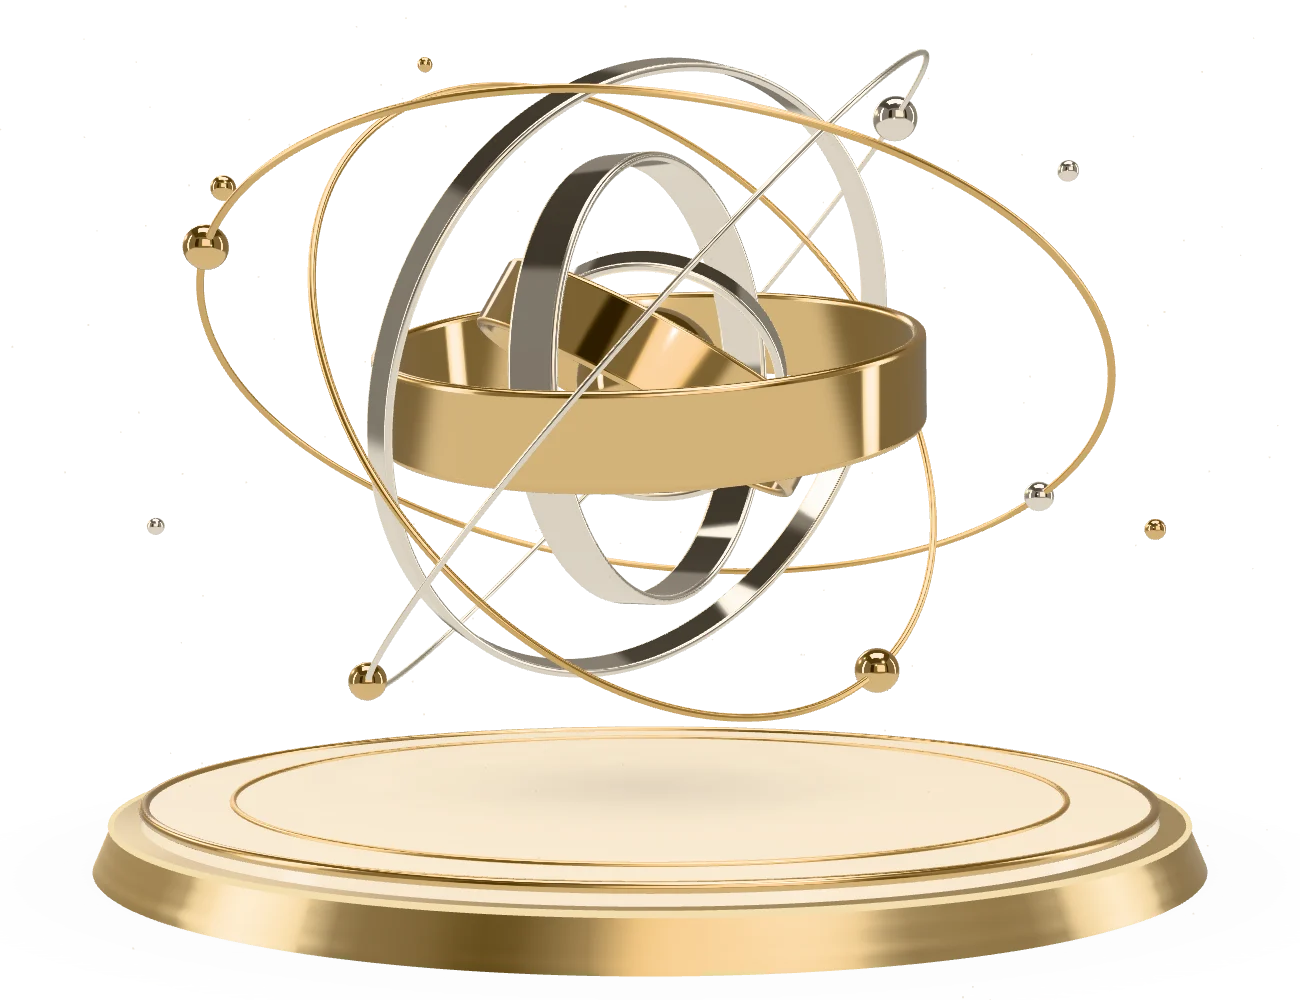
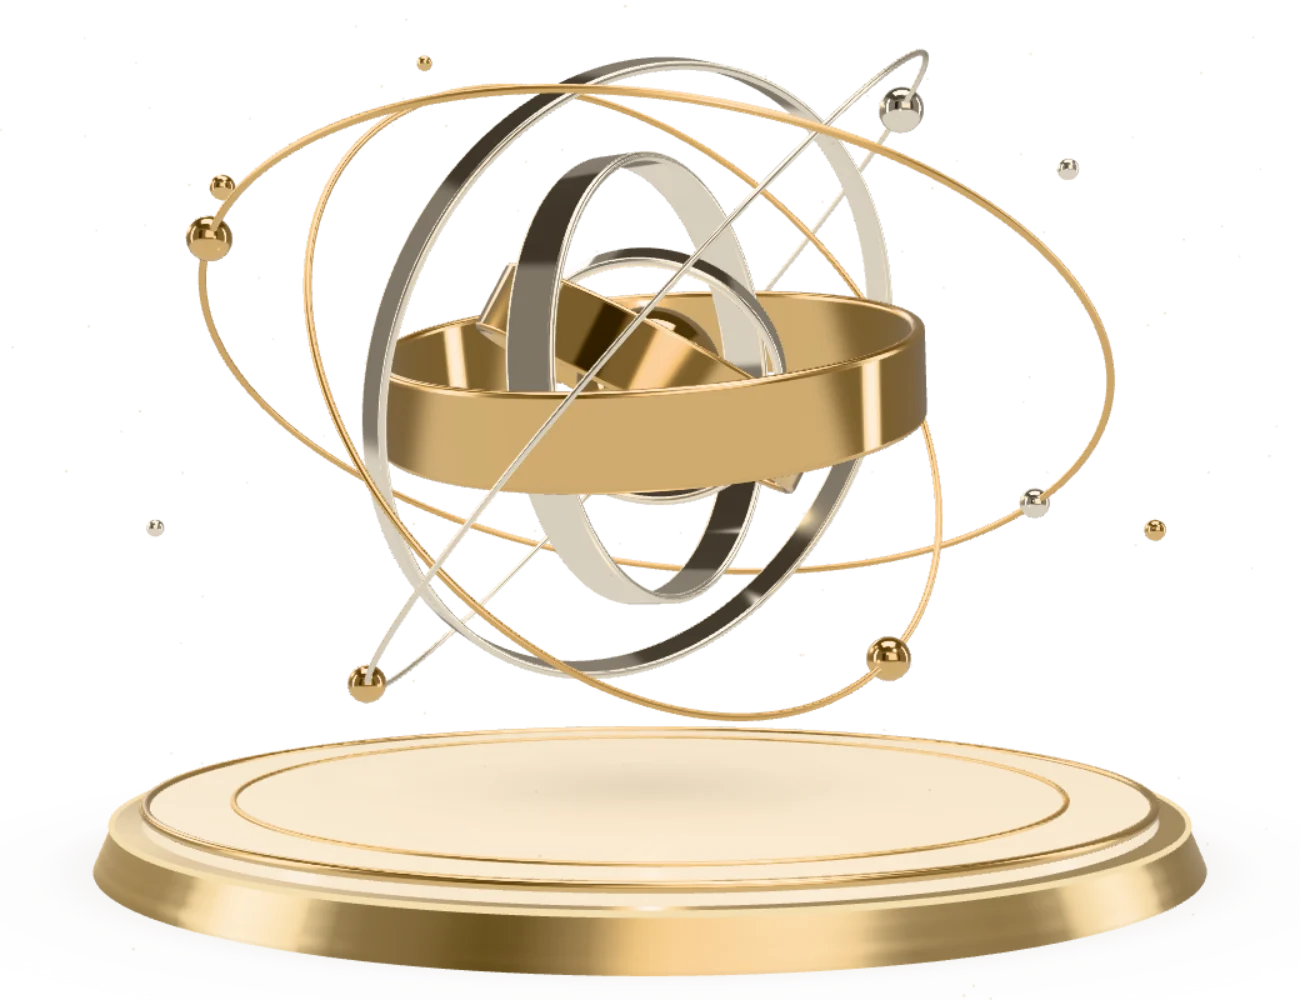
Polish hero lighting, materials, shadows and stats card
- Backdrop: two large, low-contrast curved shells (a grand arch and a
  curved floor step) and a warm daylight wash from the upper right.
  Softer ambient glow with an eased falloff, dimmer warm rays, gentler
  vignette and a faint occlusion band where the wall meets the floor.
  Gradient fills only, no blur, so repaints stay cheap.
- Hero sculpture: lacquered champagne gold and warm polished platinum
  with a thin clearcoat for layered reflections; a warm bounce light
  from the platform; warm contact shadows plus a tight occlusion line
  at the plinth foot; the pool under the sculpture softens as it rises.
  Other scenes are unchanged.
- Stats card: layered warm shadows (ambient, key, contact) and a fill
  lit from the upper right, so it floats above the backdrop.
- Re-rendered the transparent hero.webp fallback.

diff --git a/lib/features/home/hero_backdrop.dart b/lib/features/home/hero_backdrop.dart
@@ -10,8 +10,10 @@ import '../../core/utils/responsive.dart';
 import '../../shared/three/scroll_animation_controller.dart';
 
 /// The hero's environment: a pearl-and-ivory architectural space of curved
-/// walls catching champagne light, with a golden glow behind the sculpture,
-/// light flowing along the walls' edges and slow gold and platinum motes.
+/// walls catching champagne light, set in the large curved shell of a room
+/// lit by warm daylight from the upper right, with a golden glow behind the
+/// sculpture, light flowing along the walls' edges and slow gold and
+/// platinum motes.
 ///
 /// Two layers keep it cheap. The architecture repaints only when the pointer
 /// or the scroll moves it; the atmosphere (glow, streaks, motes) animates on
@@ -141,6 +143,69 @@ const _light = Color(0xFFFFFCF6);
 const _shade = Color(0xFFDCC9AC); // shaded side of a curved wall
 const _shadow = Color(0xFF8A7458); // warm cast shadow, used at low alpha
 const _platinumMote = Color(0xFFBDB8AF);
+const _sun = Color(0xFFFFF0D6); // warm daylight
+
+/// A large shell of the room: its lit lip (a cubic from [a] to [b]) and
+/// [inset], the offset from the lip to the shell's far, shaded side. All in
+/// normalised coordinates.
+typedef _Shell = ({Offset a, Offset c1, Offset c2, Offset b, Offset inset});
+
+/// Wide layouts: a grand arch rising behind the sculpture and over the
+/// room, and a long curved step in the floor. Stacked layouts keep both
+/// below the copy.
+List<_Shell> _shells(bool wide) => wide
+    ? const [
+        (a: Offset(0.16, 1.1), c1: Offset(0.3, 0.32), c2: Offset(0.62, -0.04), b: Offset(1.1, -0.02), inset: Offset(0.1, 0.11)),
+        (a: Offset(-0.05, 0.86), c1: Offset(0.35, 0.77), c2: Offset(0.7, 0.8), b: Offset(1.05, 0.69), inset: Offset(0, 0.07)),
+      ]
+    : const [
+        (a: Offset(-0.1, 0.78), c1: Offset(0.25, 0.47), c2: Offset(0.7, 0.43), b: Offset(1.1, 0.56), inset: Offset(0, 0.08)),
+        (a: Offset(-0.05, 0.95), c1: Offset(0.4, 0.86), c2: Offset(0.7, 0.88), b: Offset(1.05, 0.82), inset: Offset(0, 0.05)),
+      ];
+
+/// Paints a [_Shell]: lit at its lip, turning through clear ivory into a
+/// faint shade that dissolves before its far side, so it has no hard edge.
+/// Gradients only, no blur, so it stays cheap to repaint.
+void _paintShell(Canvas canvas, Size size, _Shell shell) {
+  Offset at(Offset p) => Offset(p.dx * size.width, p.dy * size.height);
+  final inset = at(shell.inset);
+  final lip = Path()
+    ..moveTo(at(shell.a).dx, at(shell.a).dy)
+    ..cubicTo(at(shell.c1).dx, at(shell.c1).dy, at(shell.c2).dx, at(shell.c2).dy, at(shell.b).dx, at(shell.b).dy);
+  final body = Path()
+    ..addPath(lip, Offset.zero)
+    ..extendWithPath(_ArchitecturePainter._reverse(lip.shift(inset)), Offset.zero)
+    ..close();
+  final mid = lip.computeMetrics().first;
+  final from = mid.getTangentForOffset(mid.length / 2)!.position;
+  canvas.drawPath(
+    body,
+    Paint()
+      ..shader = ui.Gradient.linear(
+        from,
+        from + inset,
+        [_light.withValues(alpha: 0.55), _light.withValues(alpha: 0), _shadow.withValues(alpha: 0.06), _shadow.withValues(alpha: 0)],
+        const [0, 0.35, 0.72, 1],
+      ),
+  );
+  // The lip itself: a hairline of champagne, fading out at both ends.
+  final bounds = lip.getBounds().inflate(1);
+  canvas.drawPath(
+    lip,
+    Paint()
+      ..style = PaintingStyle.stroke
+      ..strokeWidth = 1.2
+      ..shader = LinearGradient(
+        colors: [
+          AppColors.softChampagne.withValues(alpha: 0),
+          AppColors.softChampagne.withValues(alpha: 0.38),
+          AppColors.softChampagne.withValues(alpha: 0.3),
+          AppColors.softChampagne.withValues(alpha: 0),
+        ],
+        stops: const [0, 0.45, 0.75, 1],
+      ).createShader(bounds),
+  );
+}
 
 /// A curved wall: its lit edge (a cubic from [a] to [b]), its thickness as a
 /// fraction of the width, how strongly the edge catches gold, and its depth
@@ -209,6 +274,36 @@ class _ArchitecturePainter extends CustomPainter {
         ).createShader(rect),
     );
 
+    // Natural light: a broad, warm daylight wash entering from the upper
+    // right, as through a tall window out of frame. Long, eased falloff so
+    // it never shows an edge.
+    final window = wide ? Offset(w * 1.05, -h * 0.15) : Offset(w * 0.95, -h * 0.1);
+    final windowRadius = math.max(w, h) * (wide ? 1.05 : 1.2);
+    canvas.drawRect(
+      rect,
+      Paint()
+        ..shader = RadialGradient(
+          colors: [
+            _sun.withValues(alpha: 0.5),
+            _sun.withValues(alpha: 0.26),
+            _sun.withValues(alpha: 0.08),
+            _sun.withValues(alpha: 0),
+          ],
+          stops: const [0, 0.32, 0.62, 1],
+        ).createShader(Rect.fromCircle(center: window, radius: windowRadius)),
+    );
+
+    // Far: the shell of the room, two very large, low-contrast curved
+    // surfaces sweeping behind everything. Each is shaded across its width
+    // with a soft lit lip, so it reads as form rather than line.
+    canvas.save();
+    final shell = _shift(p, s, 0.12, size);
+    canvas.translate(shell.dx, shell.dy);
+    for (final curve in _shells(wide)) {
+      _paintShell(canvas, size, curve);
+    }
+    canvas.restore();
+
     // Far: architectural ribs, faint concentric arcs of a vault rising
     // behind the sculpture. They barely move, which reads as distance.
     canvas.save();
@@ -249,6 +344,19 @@ class _ArchitecturePainter extends CustomPainter {
             colors: [_warm.withValues(alpha: 0), _warm.withValues(alpha: 0.75), _ivory.withValues(alpha: 0.3)],
             stops: const [0, 0.45, 1],
           ).createShader(floor),
+      );
+      // Ambient occlusion where the wall meets the floor: a faint, soft
+      // band of shade that grounds the room.
+      final junction = Rect.fromLTWH(0, h * 0.68, w, h * 0.12);
+      canvas.drawRect(
+        junction,
+        Paint()
+          ..shader = LinearGradient(
+            begin: Alignment.topCenter,
+            end: Alignment.bottomCenter,
+            colors: [_shadow.withValues(alpha: 0), _shadow.withValues(alpha: 0.045), _shadow.withValues(alpha: 0)],
+            stops: const [0, 0.55, 1],
+          ).createShader(junction),
       );
     }
 
@@ -361,8 +469,8 @@ class _ArchitecturePainter extends CustomPainter {
         ..shader = RadialGradient(
           center: wide ? const Alignment(0.2, -0.1) : Alignment.center,
           radius: 1.05,
-          colors: [_shadow.withValues(alpha: 0), _shadow.withValues(alpha: 0.1)],
-          stops: const [0.6, 1],
+          colors: [_shadow.withValues(alpha: 0), _shadow.withValues(alpha: 0.035), _shadow.withValues(alpha: 0.09)],
+          stops: const [0.55, 0.8, 1],
         ).createShader(rect),
     );
 
@@ -473,18 +581,24 @@ class _AtmospherePainter extends CustomPainter {
     final focus = _focus(size, wide) + Offset(0, -s * size.height * 0.12);
     final radius = math.max(size.width, size.height) * (wide ? 0.34 : 0.42);
     final strength = intro * (1 + math.sin(s * math.pi) * 0.35) * (1 - s * 0.5);
+    final glow = (0.17 + breath * 0.05) * strength;
+    // A slightly wider pool with an eased, many-step falloff: gentler at
+    // the centre and with no visible ring where it meets the room.
     canvas.drawCircle(
       focus,
-      radius,
+      radius * 1.12,
       Paint()
         ..shader = RadialGradient(
           colors: [
-            _light.withValues(alpha: 0.5 * strength),
-            AppColors.softChampagne.withValues(alpha: (0.2 + breath * 0.07) * strength),
+            _light.withValues(alpha: 0.42 * strength),
+            _light.withValues(alpha: 0.26 * strength),
+            AppColors.softChampagne.withValues(alpha: glow),
+            AppColors.softChampagne.withValues(alpha: glow * 0.45),
+            AppColors.softChampagne.withValues(alpha: glow * 0.12),
             AppColors.softChampagne.withValues(alpha: 0),
           ],
-          stops: const [0, 0.42, 1],
-        ).createShader(Rect.fromCircle(center: focus, radius: radius)),
+          stops: const [0, 0.2, 0.42, 0.62, 0.82, 1],
+        ).createShader(Rect.fromCircle(center: focus, radius: radius * 1.12)),
     );
   }
 
@@ -506,11 +620,12 @@ class _AtmospherePainter extends CustomPainter {
       canvas.drawPath(
         ray,
         Paint()
-          ..maskFilter = const MaskFilter.blur(BlurStyle.normal, 18)
+          ..maskFilter = const MaskFilter.blur(BlurStyle.normal, 24)
           ..shader = RadialGradient(
             center: Alignment.topRight,
             radius: 1.2,
-            colors: [_light.withValues(alpha: 0.5 * intro), _light.withValues(alpha: 0)],
+            colors: [_sun.withValues(alpha: 0.36 * intro), _sun.withValues(alpha: 0.12 * intro), _sun.withValues(alpha: 0)],
+            stops: const [0, 0.5, 1],
           ).createShader(ray.getBounds()),
       );
     }

diff --git a/web/three/yodynix3d.js b/web/three/yodynix3d.js
@@ -572,14 +572,20 @@ class Kit {
     return this.track(t);
   }
 
-  /** Soft ambient-occlusion shadow on an invisible floor. */
-  contactShadow(radius = 1.4, opacity = 0.22) {
+  /**
+   * Soft ambient-occlusion shadow on an invisible floor. A [tight] shadow
+   * holds its density almost to the edge and then falls off quickly: the
+   * crisp occlusion line where a solid base meets the floor. A [warm] shadow
+   * is umber rather than charcoal, as shadows read on an ivory floor.
+   */
+  contactShadow(radius = 1.4, opacity = 0.22, { tight = false, warm = false } = {}) {
     const tex = this.canvasTexture(256, 256, (g, w, h) => {
       const grad = g.createRadialGradient(w / 2, h / 2, 0, w / 2, h / 2, w / 2);
-      grad.addColorStop(0, 'rgba(42,40,38,1)');
-      grad.addColorStop(0.35, 'rgba(42,40,38,0.55)');
-      grad.addColorStop(0.7, 'rgba(42,40,38,0.12)');
-      grad.addColorStop(1, 'rgba(42,40,38,0)');
+      const stops = tight
+        ? [[0, 1], [0.86, 0.8], [0.93, 0.22], [1, 0]]
+        : [[0, 1], [0.35, 0.55], [0.7, 0.12], [1, 0]];
+      const rgb = warm ? '58,46,32' : '42,40,38';
+      for (const [at, a] of stops) grad.addColorStop(at, `rgba(${rgb},${a})`);
       g.fillStyle = grad;
       g.fillRect(0, 0, w, h);
     });
@@ -1483,8 +1489,17 @@ const SCENES = {
       [1.46, 0.5, 0.07, true, [0.55, -0.4, 0.95], [0.4, 0, 1], -0.12],
       [1.7, 0.2, 0.045, false, [1.35, 0.9, 0], [1, 0, 0.2], 0.09],
     ];
+    // Hero finishes: the gold is a deep champagne under a thin, glassy
+    // lacquer, so it shows both the warm metal reflection and a crisp white
+    // highlight on top; the silver is a warm polished platinum with a faint
+    // clearcoat for the same layered depth.
+    const heroGold = (extra = {}) =>
+      kit.liquidGold({ color: 0xe8c890, roughness: 0.1, clearcoat: 0.85, clearcoatRoughness: 0.035, envMapIntensity: 1.35, ...extra });
+    const heroSilver = (extra = {}) =>
+      kit.chrome({ color: 0xf1efea, roughness: 0.06, clearcoat: 0.5, clearcoatRoughness: 0.04, envMapIntensity: 1.3, ...extra });
+
     const bands = bandSpecs.map(([R, w, t, isGold, rest, axis, speed], i) => {
-      const material = isGold ? kit.liquidGold({ roughness: 0.08 }) : kit.chrome({ roughness: 0.05 });
+      const material = isGold ? heroGold() : heroSilver();
       const mesh = new THREE.Mesh(band(R, w, t), material);
       const pivot = new THREE.Group();
       pivot.rotation.set(...rest);
@@ -1495,7 +1510,7 @@ const SCENES = {
     });
 
     // Liquid-gold core with a warm inner light.
-    const core = new THREE.Mesh(new THREE.SphereGeometry(0.4, 96, 64), kit.liquidGold({ roughness: 0.03 }));
+    const core = new THREE.Mesh(new THREE.SphereGeometry(0.4, 96, 64), heroGold({ roughness: 0.04 }));
     const coreLight = new THREE.PointLight(0xffdca0, 1.2, 2.2, 2);
     sculpture.add(core, coreLight);
     casters.push(core);
@@ -1516,11 +1531,11 @@ const SCENES = {
       spin.add(tilt);
       const ring = new THREE.Mesh(
         new THREE.TorusGeometry(radius, goldRing ? 0.02 : 0.016, 20, kit.seg(360)),
-        goldRing ? kit.gold({ roughness: 0.1 }) : kit.chrome({ roughness: 0.06 }),
+        goldRing ? heroGold({ roughness: 0.12, clearcoat: 0.5 }) : heroSilver({ roughness: 0.07 }),
       );
-      const sphere = new THREE.Mesh(new THREE.SphereGeometry(size, 48, 32), goldSphere ? kit.liquidGold() : kit.chrome({ roughness: 0.04 }));
+      const sphere = new THREE.Mesh(new THREE.SphereGeometry(size, 48, 32), goldSphere ? heroGold() : heroSilver({ roughness: 0.04 }));
       // A second, smaller rider opposite the first on the outer rings.
-      const rider = i > 0 ? new THREE.Mesh(new THREE.SphereGeometry(size * 0.75, 32, 24), goldSphere ? kit.chrome({ roughness: 0.04 }) : kit.liquidGold()) : null;
+      const rider = i > 0 ? new THREE.Mesh(new THREE.SphereGeometry(size * 0.75, 32, 24), goldSphere ? heroSilver({ roughness: 0.04 }) : heroGold()) : null;
       tilt.add(ring, sphere);
       if (rider) tilt.add(rider);
       sculpture.add(spin);
@@ -1569,12 +1584,15 @@ const SCENES = {
     rim.rotation.x = Math.PI / 2;
     rim.position.y = platformTop - 0.08;
     platform.add(plinth, top, inlay, lip, rim);
-    // Ambient occlusion: a soft pool under the sculpture and under the plinth.
-    const pool = kit.contactShadow(1.6, 0.16);
+    // Ambient occlusion: a soft pool under the sculpture, a broad shadow
+    // around the plinth and a tight occlusion line where it meets the floor.
+    const pool = kit.contactShadow(1.6, 0.18, { warm: true });
     pool.position.y = platformTop + 0.003;
-    const ground = kit.contactShadow(4.0, 0.22);
+    const ground = kit.contactShadow(4.2, 0.24, { warm: true });
     ground.position.y = platformTop - 0.31;
-    platform.add(pool, ground);
+    const foot = kit.contactShadow(3.4, 0.2, { tight: true, warm: true });
+    foot.position.y = platformTop - 0.305;
+    platform.add(pool, ground, foot);
     scene.add(platform);
 
     if (kit.quality.shadow) {
@@ -1595,7 +1613,11 @@ const SCENES = {
     sweep.target.position.set(0, 0, 0);
     const front = new THREE.PointLight(0xfff6e8, 6, 10, 2);
     front.position.set(0.5, 1.2, 4.2);
-    scene.add(sweep, sweep.target, front);
+    // Warm light bouncing up off the pearl-and-gold platform, so the bands'
+    // undersides glow the way metal does above a lit surface.
+    const bounce = new THREE.PointLight(0xffe4b8, 2.2, 4.5, 2);
+    bounce.position.set(0, platformTop + 0.5, 0.9);
+    scene.add(sweep, sweep.target, front, bounce);
 
     const q = new THREE.Quaternion();
     const look = new THREE.Vector3();
@@ -1642,6 +1664,10 @@ const SCENES = {
         dust.points.position.set(s.pointer.x * 0.3, -s.pointer.y * 0.2, 0);
         dust.update(t, dt, null);
         rim.material.emissiveIntensity = 1.4 + Math.sin(t * 1.2) * 0.25;
+        // The pool under the sculpture softens as it rises.
+        const lift = sculpture.position.y - 0.36;
+        pool.material.opacity = pool.userData.baseOpacity * (1 - lift * 1.6);
+        pool.scale.setScalar(1 + lift * 0.5);
 
         // Cinematic camera: dolly in on load, rise and pull back on scroll.
         const zoom = 1.3 - intro * 0.3 + scroll * 0.12;

diff --git a/lib/features/home/hero_stats_bar.dart b/lib/features/home/hero_stats_bar.dart
@@ -9,6 +9,9 @@ import '../../core/utils/responsive.dart';
 import '../../shared/widgets/cards.dart';
 import '../../shared/widgets/viewport_trigger.dart';
 
+/// Warm umber for the card's shadows, so they read naturally on ivory.
+const _shadowTone = Color(0xFF4A3B28);
+
 /// The "Our Impact" card at the foot of the hero: an introduction followed
 /// by the figures from [HeroStatsConfig], separated by fine gold rules. The
 /// figures count up once when the card first becomes visible, each starting
@@ -125,16 +128,22 @@ class _HeroStatsBarState extends State<HeroStatsBar> with SingleTickerProviderSt
           horizontal: context.responsive(mobile: 12.0, tablet: 24.0, desktop: 40.0),
         ),
         decoration: BoxDecoration(
+          // Lit from the upper right, like the room behind it.
           gradient: const LinearGradient(
-            begin: Alignment.topLeft,
-            end: Alignment.bottomRight,
-            colors: [AppColors.white, Color(0xFFFBF8F2)],
+            begin: Alignment.topRight,
+            end: Alignment.bottomLeft,
+            colors: [AppColors.white, Color(0xFFFEFCF8), Color(0xFFFAF6EE)],
+            stops: [0, 0.45, 1],
           ),
           borderRadius: BorderRadius.circular(mobile ? 22 : 28),
           border: Border.all(color: const Color(0xFFEFE8DC)),
+          // Layered warm shadows, as a lifted object casts under soft light:
+          // a broad, faint ambient pool well below the card, a key shadow
+          // offset away from the light, and a tight contact edge.
           boxShadow: [
-            BoxShadow(color: AppColors.charcoal.withValues(alpha: 0.08), blurRadius: 48, offset: const Offset(0, 22)),
-            BoxShadow(color: AppColors.charcoal.withValues(alpha: 0.04), blurRadius: 6, offset: const Offset(0, 2)),
+            BoxShadow(color: _shadowTone.withValues(alpha: 0.07), blurRadius: mobile ? 48 : 80, spreadRadius: -16, offset: Offset(0, mobile ? 26 : 40)),
+            BoxShadow(color: _shadowTone.withValues(alpha: 0.08), blurRadius: mobile ? 22 : 32, spreadRadius: -6, offset: Offset(mobile ? -2 : -4, mobile ? 12 : 16)),
+            BoxShadow(color: _shadowTone.withValues(alpha: 0.06), blurRadius: 3, offset: const Offset(0, 1)),
           ],
         ),
         child: content,
